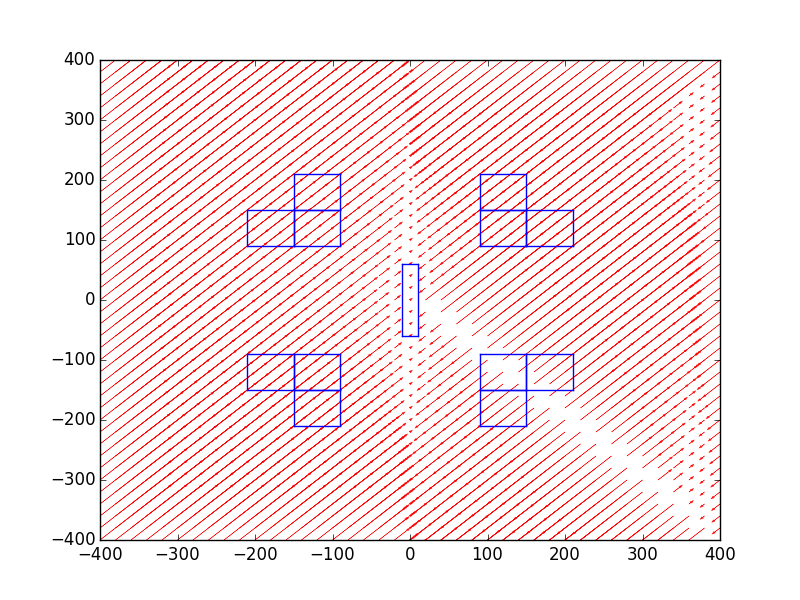
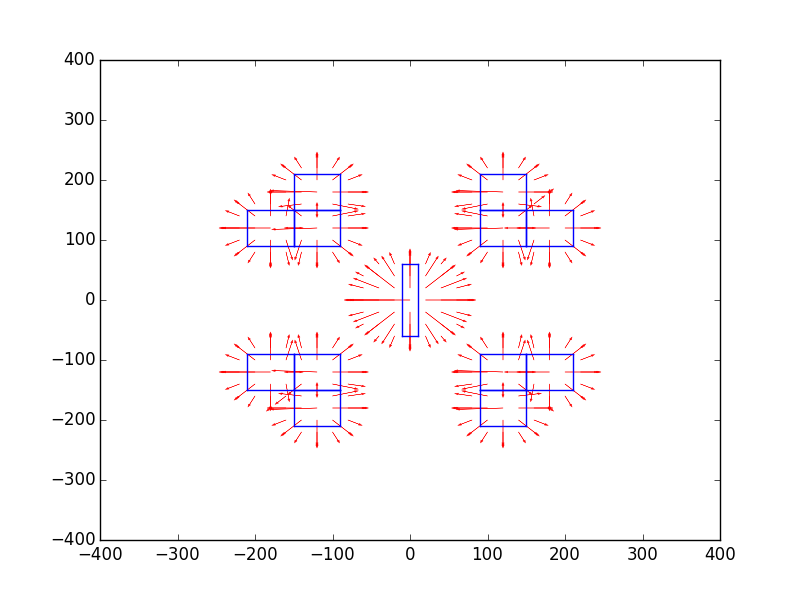
Everything kinda seems like it's working.

diff --git a/bzagents/pf-agent.py b/bzagents/pf-agent.py
@@ -23,6 +23,7 @@
 import sys
 import math
 import time
+import pprint
 # from bzrflag.constants import FLAGRADIUS
 from bzrc import BZRC, Command
 
@@ -32,8 +33,7 @@ import show_field as graph
 FLAGRADIUS = 2.5
 FLAGSPREAD = 100
 
-OBSTACLERADIUS = 1
-OBSTACLESPREAD = 10
+OBSTACLESPREAD = 20
 
 class Agent(object):
     """Class handles all command and control logic for a teams tanks."""
@@ -81,7 +81,55 @@ class Agent(object):
             else:
                 return alpha * FLAGSPREAD * math.cos(angle), alpha * FLAGSPREAD * math.sin(angle)
 
+        def repulsive_fields_func(x, y, res):
+            alpha = 2
+            INFINITY = 1000000
+
+            potential_fields = []
+            for obstacle in self.obstacles:
+                xavg = 0
+                yavg = 0
+                for corner in obstacle:
+                    xavg += corner[0]
+                    yavg += corner[1]
+                xavg = xavg / len(obstacle)
+                yavg = yavg / len(obstacle)
+                radius = math.sqrt((obstacle[0][0] - xavg)**2 + (obstacle[0][1] - yavg)**2)
+                distance = math.sqrt((xavg - x)**2 + (yavg - y)**2) #tank distance from center
+                angle = math.atan2(yavg - y, xavg - x)
+                if distance < radius + OBSTACLESPREAD:
+                    potential_fields.append((-alpha * (OBSTACLESPREAD + radius - distance) * math.cos(angle), -alpha * (OBSTACLESPREAD + radius - distance) * math.sin(angle)))
+            print potential_fields
+
+            # merge potential fields
+            return self.merge_potential_fields(potential_fields)
+
+        def tangential_fields_func(x, y, res):
+            alpha = 1
+
+            potential_fields = []
+
+            for obstacle in self.obstacles:
+                xavg = 0
+                yavg = 0
+                for corner in obstacle:
+                    xavg += corner[0]
+                    yavg += corner[1]
+                xavg = xavg / len(obstacle)
+                yavg = yavg / len(obstacle)
+                radius = math.sqrt((obstacle[0][0] - xavg)**2 + (obstacle[0][1] - yavg)**2)
+                distance = math.sqrt((xavg - x)**2 + (yavg - y)**2) #tank distance from center
+                angle = math.atan2(yavg - y, xavg - x) + math.pi/2
+                if distance < radius + OBSTACLESPREAD:
+                    potential_fields.append((-alpha * (OBSTACLESPREAD + radius - distance) * math.cos(angle), -alpha * (OBSTACLESPREAD + radius - distance) * math.sin(angle)))
+            print potential_fields
+            
+            return self.merge_potential_fields(potential_fields)
+
+
         self.attractive_fields_func = attractive_fields_func
+        self.repulsive_fields_func = repulsive_fields_func
+        self.tangential_fields_func = tangential_fields_func
 
         bases = self.bzrc.get_bases()
         for base in bases:
@@ -92,17 +140,21 @@ class Agent(object):
 
         for tank in mytanks:
             self.potential_fields[tank.index] = self.calculate_attractive_fields(tank)
-            # self.calculate_repulsive_fields(tank, self.obstacles, mytanks + othertanks)
+            self.potential_fields[tank.index] = self.potential_fields[tank.index] + self.calculate_repulsive_fields(tank, self.obstacles, mytanks + othertanks)
             self.calculate_tangential_fields()
 
         for key in self.potential_fields.keys():
             # reduce potential fields to one
             # move in direction based off of dx and dy
-            self.merge_potential_fields(self.potential_fields[key], key)
+            self.potential_fields[key] = self.merge_potential_fields(self.potential_fields[key])
 
         for tank in mytanks:
             self.move_to_position(tank, tank.x + self.potential_fields[tank.index][0], tank.y + self.potential_fields[tank.index][1])
         results = self.bzrc.do_commands(self.commands)
+
+        # graph.plot_single(self.attractive_fields_func, self.obstacles, "attractive.png")
+        # graph.plot_single(self.repulsive_fields_func, self.obstacles, "repulsive.png")
+        graph.plot_single(self.tangential_fields_func, self.obstacles, "tangential.png")
 
     def return_to_base(self, tank):
         # get the coordinates of the center of the base
@@ -133,13 +185,13 @@ class Agent(object):
             angle -= 2 * math.pi
         return angle
 
-    def merge_potential_fields(self, fields, key):
+    def merge_potential_fields(self, fields):
         dx = 0
         dy = 0
         for field in fields:
             dx += field[0]
             dy += field[1]
-        self.potential_fields[key] = (dx, dy)
+        return (dx, dy)
 
     def calculate_attractive_fields(self, tank):
         dx = 0
@@ -151,23 +203,12 @@ class Agent(object):
         return[(dx, dy)]
 
     def calculate_repulsive_fields(self, tank, obstacles, tanks):
-        alpha = 0.9
-        INFINITY = 1000000
-        for obstacle in obstacles:
-            for corner in obstacle:
-                distance = math.sqrt((corner[0] - tank.x)**2 + (corner[1] - tank.y)**2)
-                angle = math.atan2(corner[1] - tank.y, corner[0] - tank.x)
-                print "Tank %d is %f from obstacle" % (tank.index, distance)
+        dx, dy = self.repulsive_fields_func(tank.x, tank.y, 20)
+        return [(dx, dy)]
 
-                if distance < OBSTACLERADIUS:
-                    self.potential_fields[tank.index].append((- math.copysign(1, math.cos(angle)) * INFINITY, -math.copysign(1, math.sin(angle)) * INFINITY))
-                elif distance < OBSTACLERADIUS + OBSTACLESPREAD:
-                    self.potential_fields[tank.index].append((-alpha * (OBSTACLESPREAD + OBSTACLERADIUS - distance) * math.cos(angle), -alpha * (OBSTACLESPREAD + OBSTACLERADIUS - distance) * math.sin(angle)))
-                print "Potential field that was calculated:"
-
-        TANKRADIUS = 2
-        TANKSPREAD = 5
-        TANKALPHA = 0.1
+        # TANKRADIUS = 2
+        # TANKSPREAD = 5
+        # TANKALPHA = 0.1
         # for other_tank in tanks:
         #     distance = math.sqrt((other_tank.x - tank.x)**2 + (other_tank.y - tank.y)**2)
         #     angle = math.atan2(other_tank.y - tank.y, other_tank.x - tank.x)
@@ -176,7 +217,7 @@ class Agent(object):
         #         self.potential_fields[tank.index].append((- math.copysign(1, math.cos(angle)) * INFINITY, -math.copysign(1, math.sin(angle)) * INFINITY))
         #     elif distance < OBSTACLERADIUS + OBSTACLESPREAD:
         #         self.potential_fields[tank.index].append((-TANKALPHA * (OBSTACLESPREAD + OBSTACLERADIUS - distance) * math.cos(angle), -TANKALPHA * (OBSTACLESPREAD + OBSTACLERADIUS - distance) * math.sin(angle)))
-        print self.potential_fields[tank.index][-1]
+        # print self.potential_fields[tank.index][-1]
 
     def calculate_tangential_fields(self):
         pass
